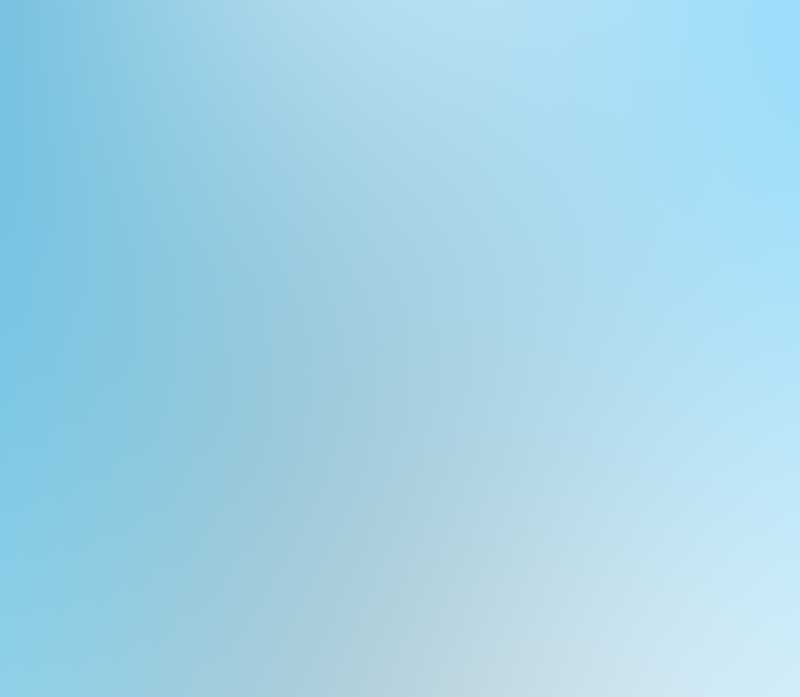
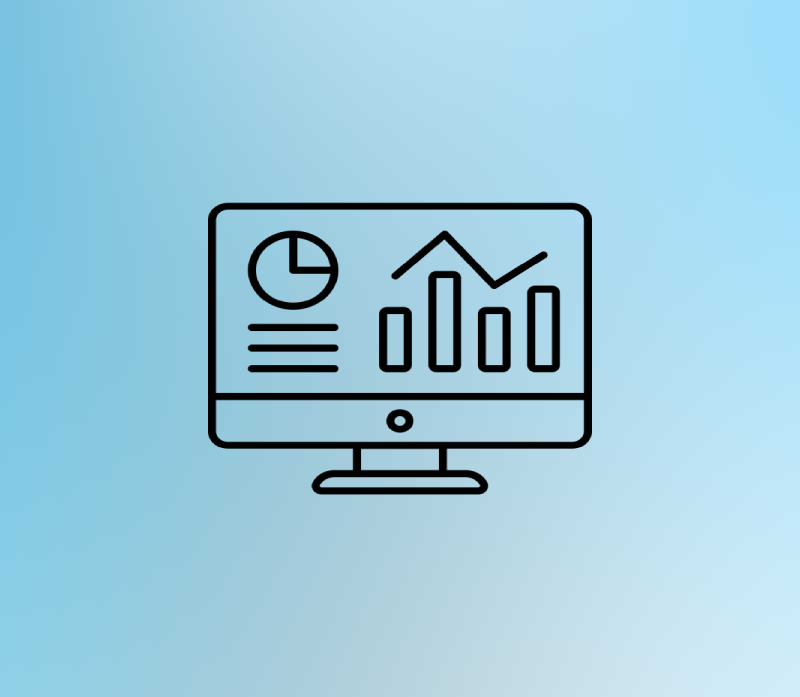
Uploaded Coffee Dashboard

Changed region(s): [[0.25, 0.2712, 0.75, 0.7231]]

diff --git a/coffee.html b/coffee.html
@@ -1,0 +1,3 @@
+<iframe width="1700" height="700" frameborder="0" scrolling="no" src="https://onedrive.live.com/embed?resid=8A73BE15AE65FE4D%21113&authkey=%21AKJNHaShFpl1utc&em=2&ActiveCell='Dashboard'!A1&wdHideGridlines=True&wdHideHeaders=True&wdInConfigurator=True&wdInConfigurator=True"></iframe>
+<br>
+<p> For more information visit : <a href ="https://github.com/ivyzheng-wrld/Coffee-Order-Dashboard">https://github.com/ivyzheng-wrld/Coffee-Order-Dashboard</a></p>

diff --git a/index.html b/index.html
@@ -243,7 +243,7 @@
 					</a>
 				</div>
 				<div class="col-md-3 text-center col-padding animate-box">
-					<a href="#" class="work" style="background-image: url(images/portfolio-2.jpg);">
+					<a href="coffee.html" class="work" style="background-image: url(images/portfolio-2.jpg);">
 						<div class="desc">
 							<h3>Coffee Orders Dashboard</h3>
 							<span>Data Analysis</span>
